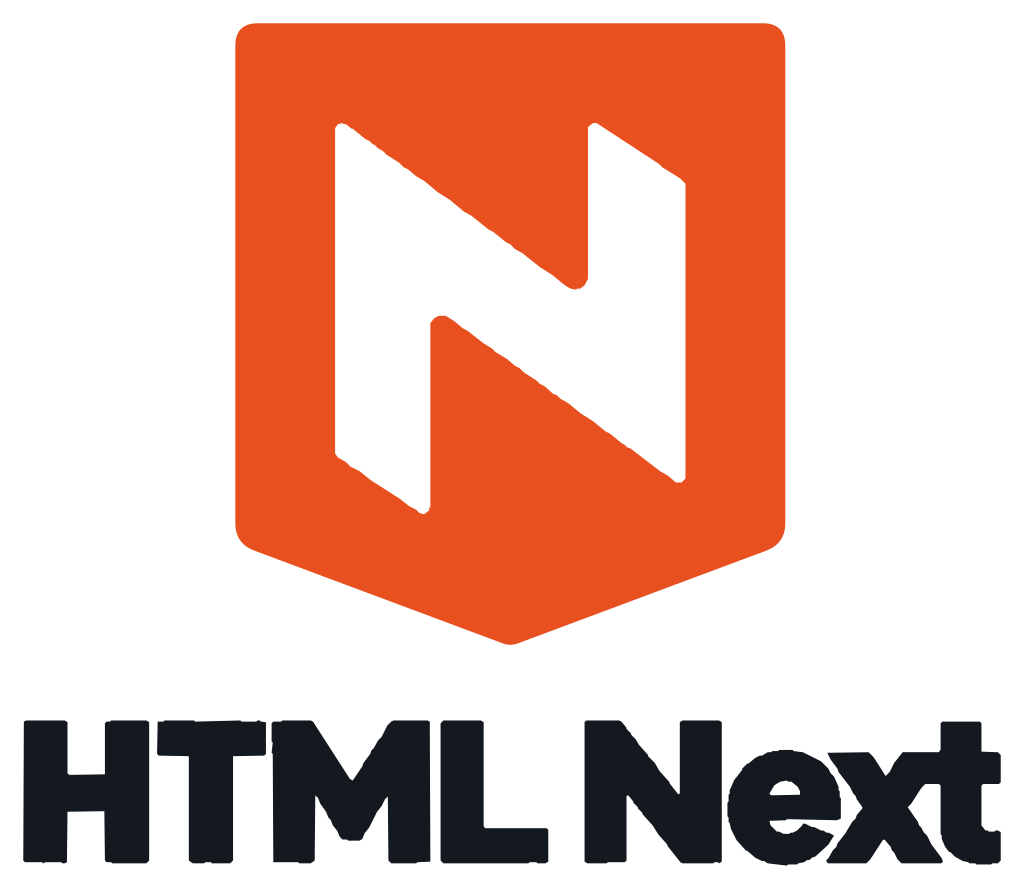
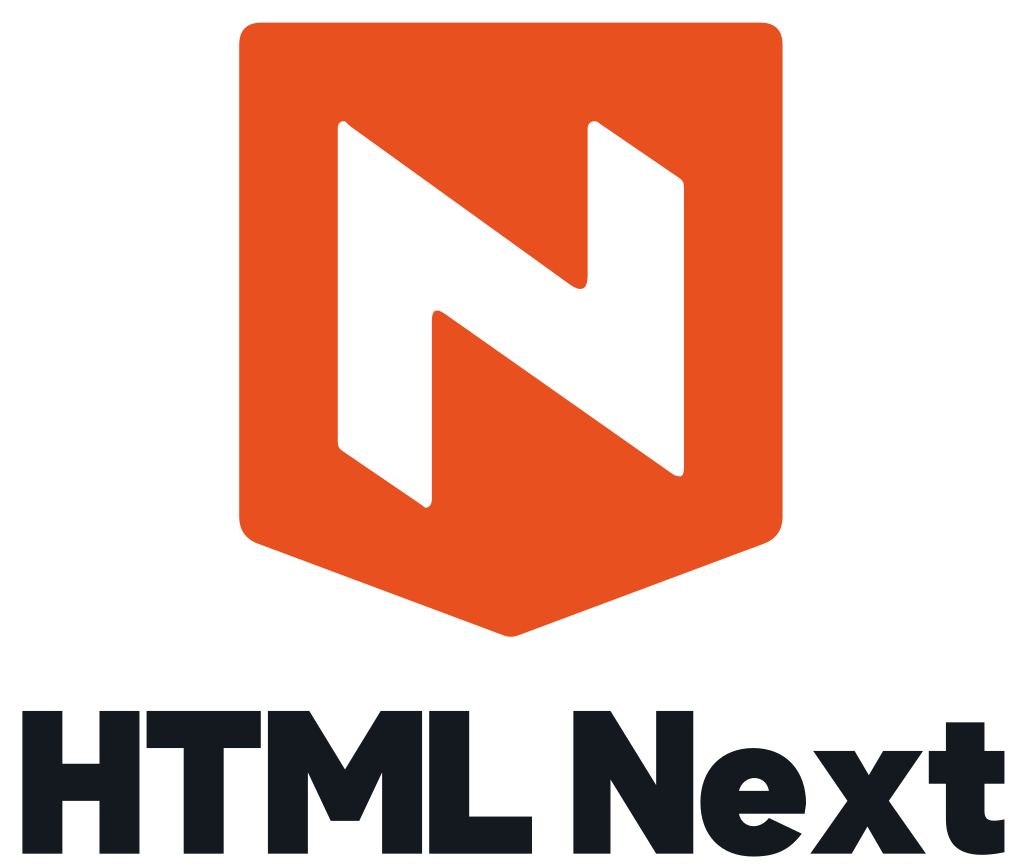
fix: rebuild HTML Next artwork with precise vector geometry

diff --git a/assets/brand/README.md b/assets/brand/README.md
@@ -11,3 +11,6 @@ Use the symbol without words for GitHub avatars, favicons, app icons, and naviga
 | `html-next-mark-dark.svg` / `.png` | Symbol for dark backgrounds; the HTML Next orange mark is unchanged. |
 
 SVG files are the vector masters; every corresponding PNG is rendered from its SVG. Keep proportions, internal spacing, and colors intact. Do not crop the avatar padding or squeeze a lockup into a profile image. Use an empty image alt attribute when adjacent text already supplies the name; otherwise use "HTML Next".
+
+The masters use explicitly constructed lines and Bézier curves for both symbols and lettering, with no raster-derived contour polygons.
+The N retains 88 source units of horizontal clearance on both sides and vertical clearance above its top and below both lower tips.

diff --git a/CHANGELOG.md b/CHANGELOG.md
@@ -2,6 +2,8 @@
 
 ## 1.0.0-alpha.36
 
+- Rebuild brand symbols and lettering with clean vector geometry, removing jagged raster-trace edges while preserving the approved N spacing.
+
 - HTML Next has approved vector and PNG brand assets, separate symbol-only avatars and full name lockups, and a branded repository introduction.
 
 - HTMLKit has a guide at [nextwebwg.org/htmlkit](https://nextwebwg.org/htmlkit/), authored in `packages/htmlkit/docs/guide`: routes and layouts, loaders and browser delivery, ordered routes and navigation, and configuration. The package README now links to it and states the supported Node range, `>=22.22.2 <23 || >=24.15 <25`.
